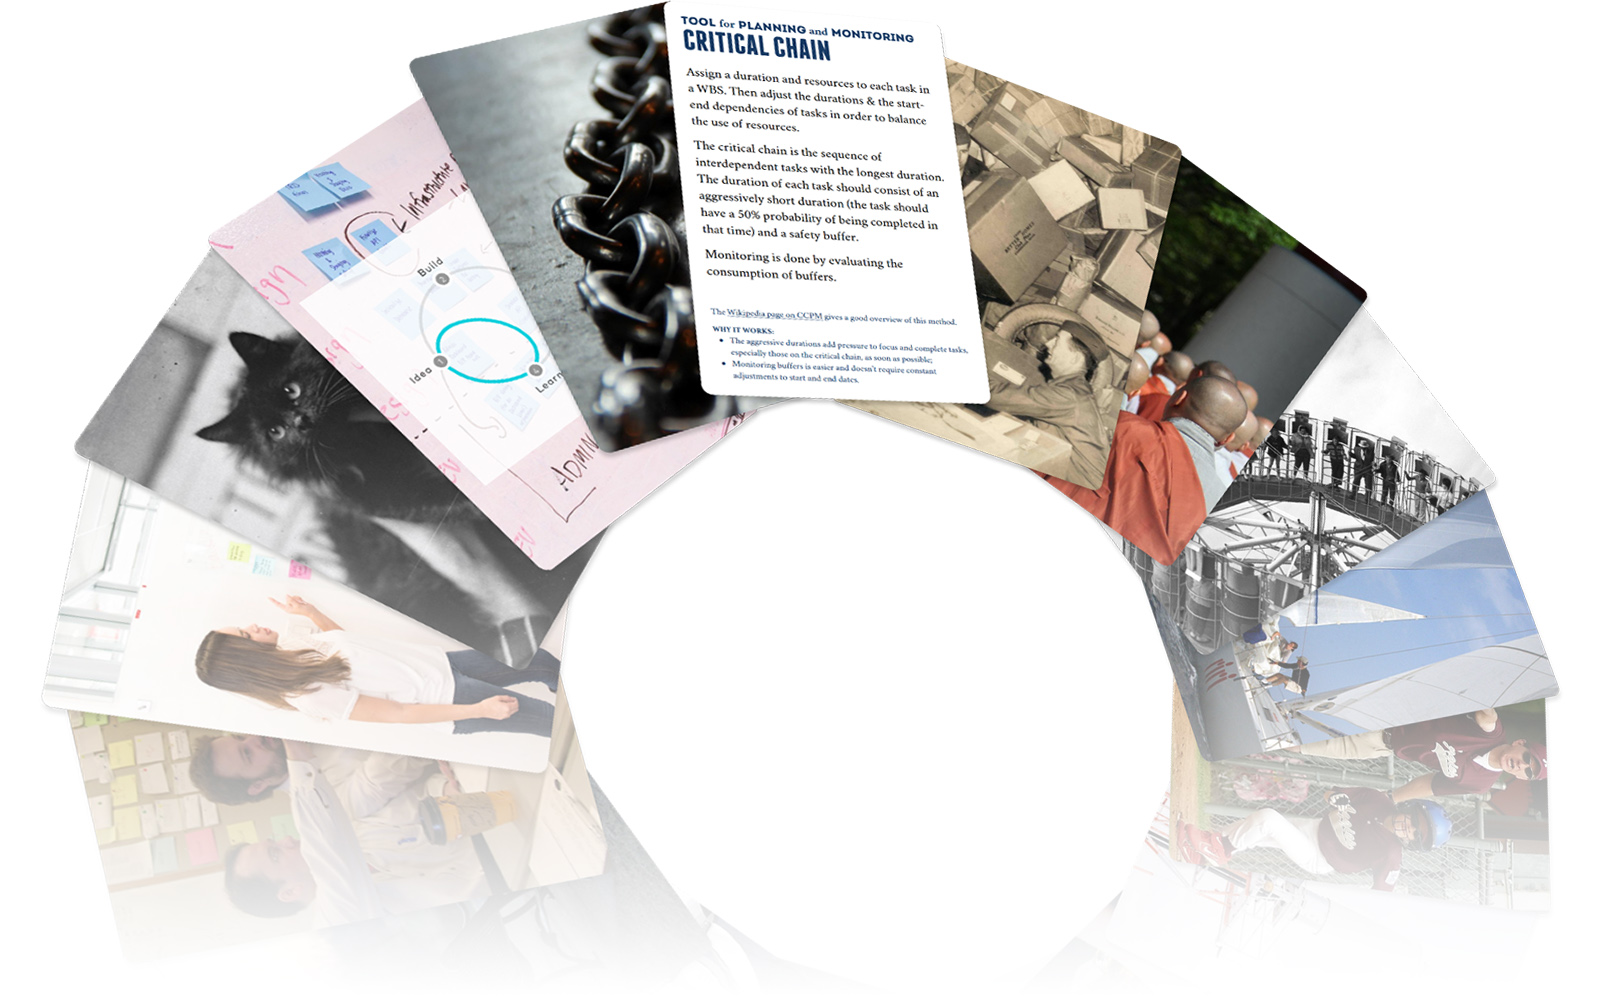
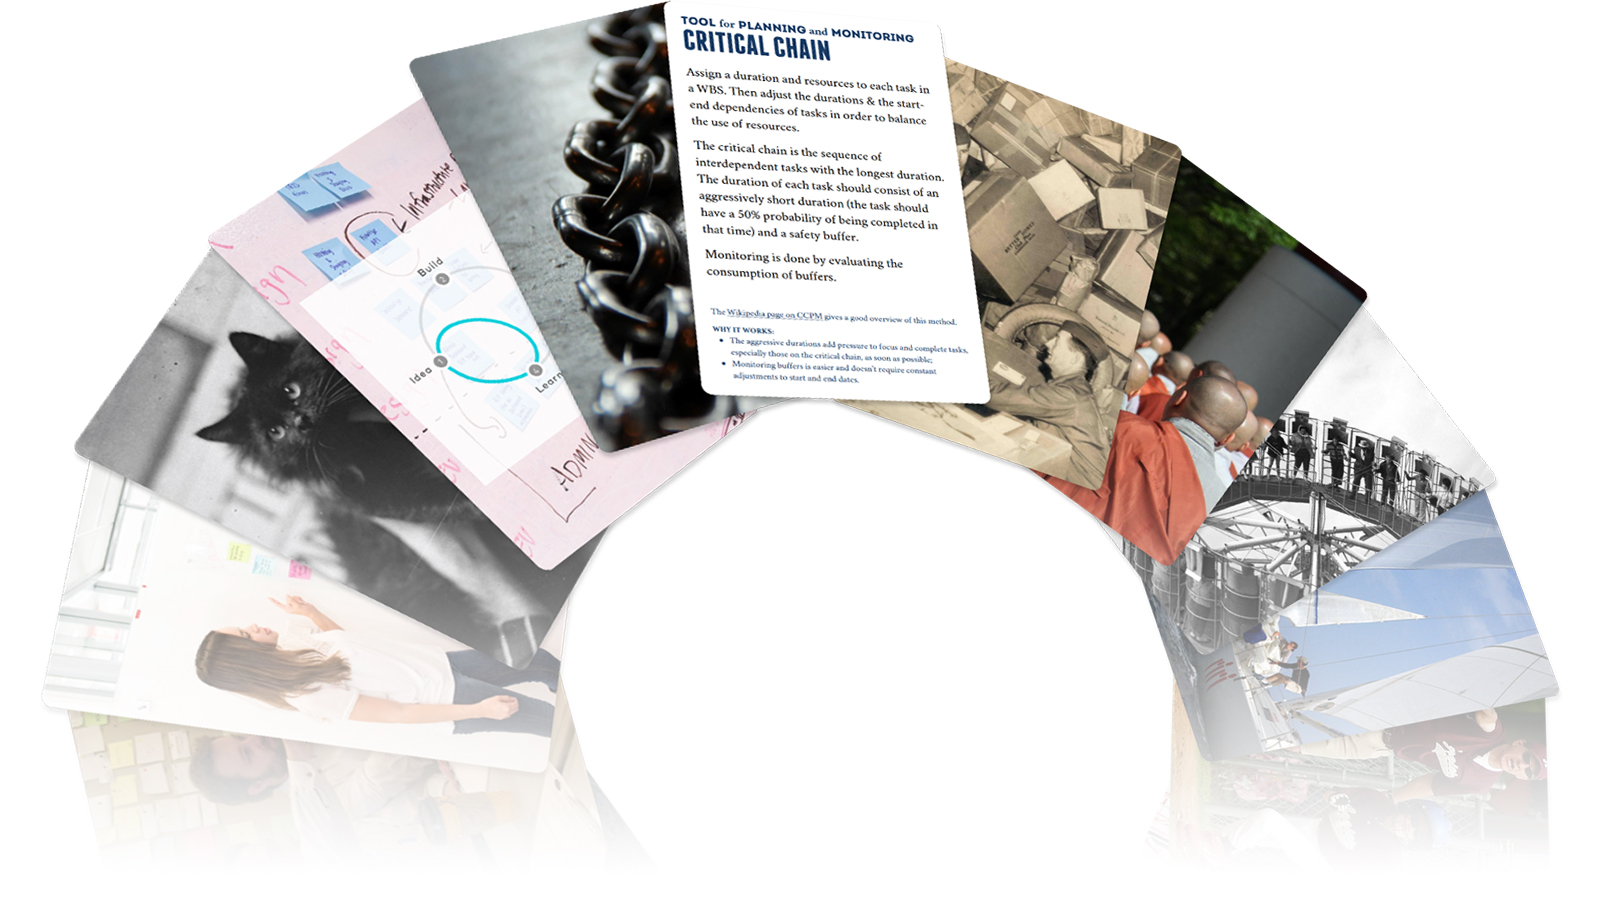
Image Header

Changed region(s): [[0.0312, 0.0, 1.0, 0.9022]]

diff --git a/css/solo.css b/css/solo.css
@@ -1,40 +1,56 @@
-@import url(http://fonts.googleapis.com/css?family=Open+Sans:300,300italc,400,400italic,500,700);
+@import url(https://fonts.googleapis.com/css?family=Open+Sans:400,400italic,500,700);
 
-html {
-  font: 18px/1.6 'Open Sans', sans-serif;
+/*position:absolute;z-index:-1;width: 100%;height: auto;/* margin-left: 0%; *//* margin-top: -10em; *//* display: block; #173a64 #header*/
+
+#header {
+  position: absolute;
+  z-index: -1;
+  width: 1200px;
+  height: auto;
+  left: 50%;
+  margin-left: -640px;
 }
 
-
-@media (max-width: 325px) {
-  html { font: 17px/1.6 'Open Sans', sans-serif; }
+@media (max-width: 470px) { 
+  #header { margin-left: -600px; }
 }
 
-body {
-  margin: 2rem 0 5rem;
-  color: #222;
-}
-
-@media (min-width: 30rem) {
-  body {
-    margin-top: 5rem;
-  }
-}
-
-a {
-  color: #0074d9; /* From http://clrs.cc */
-  text-decoration: none;
-}
-
-a:hover, a:focus {
-  text-decoration: underline;
-}
+html { font: 18px/1.6 'Open Sans', sans-serif; }
+body { margin: 2rem 0 5rem; color: #222; }
 
 h1, h2, h3, h4, h5, h6 {
-  margin: 0 0 0.5rem -0.1rem /* align left edge */;
+  margin: 2.5rem 0 1.5rem -0.1rem;
   color: #111;
   text-rendering: optimizeLegibility;
   font-family: 'Open Sans', serif;
   line-height: 1.2
+}
+
+h1 {
+  font-size: 4rem;
+  font-weight: 700;
+  margin-left: -2rem;
+  margin-right: -2rem;
+}
+
+h2 {
+  font-size: 1.75rem;
+  font-weight: 500;
+  color: #444;
+  text-align: right;
+  margin-right: -4rem;
+}
+
+h3 {
+  margin-left: -2rem;
+  margin-right: -2rem;
+  font-size: 2rem;
+}
+
+@media (max-width: 560px) { 
+  html { font: 16px/1.6 'Open Sans', sans-serif; }
+  h1 { font-size: 2rem; }
+  h3 { font-size: 1.75rem; }
 }
 
 @media (max-width: 750px) {
@@ -42,58 +58,6 @@ h1, h2, h3, h4, h5, h6 {
   margin-left: 0 !important;
   margin-right: 0 !important;
  }
-}
-
-h1 {
-  font-size: 2.5rem;
-  margin-bottom: 7rem;
-  font-weight: 700;
-  margin-left: -2rem;
-  margin-right: -2rem;
-}
-
-@media (min-width: 30rem) {
-  h1 {
-    font-size: 4rem;
-    margin-bottom: 10rem;
-  }
-}
-
-h1 a {
-  color: inherit;
-}
-
-h2 {
-  margin-top: 2rem;
-  font-size: 1.75rem;
-  font-weight: 500;
-  margin-bottom: 5rem;
-  color: #555;
-  text-align: right;
-  margin-right: -4rem;
-}
-
-@media (min-width: 30rem) {
-  h2 {
-    margin-top: 2.5rem;
-    font-size: 1.75rem;
-    margin-bottom: 8rem;
-    margin-right: -4rem;
-  }
-}
-
-h3 {
-  margin: 2rem -2rem 1.75rem -2rem;
-  margin-top: 2rem;
-  font-size: 1.75rem;
-}
-
-@media (min-width: 30rem) {
-  h3 {
-    margin-top: 2.5rem;
-    font-size: 2rem;
-    margin-bottom: 1.5rem;
-  }
 }
 
 h4, h5, h6 {
@@ -147,20 +111,14 @@ hr {
   max-width: 100%;
 }
 
-a {
-word-wrap: break-word;
-}
-
 .container img {
   margin: 2em auto 2em auto;
   display: block;
   max-width: 75%;
 }
 
-@media (max-width: 635px) {
-.container img {
- max-width: 100%
- }
+@media (max-width: 560px) {
+  .container img { max-width: 100% }
 }
 
 table {
@@ -198,45 +156,10 @@ pre > code {
   padding: 0 0.75rem;
 }
 
-.sharing {
-  text-align: center;
-}
-
 .date {
   text-align: right;
   font-size: 75%;
   font-style: italic;
-}
-
-@media (max-width: 635px) {
-.sharing {
- font-size: 85%;
- }
-}
-
-/* This gets Google to fall into place */
-.social {
- text-align: right;
-}
-
-.topsocial {
-	margin-bottom: 5em;
-}
-
-/* This gets Facebook to fall into place */
-.social iframe {
-	vertical-align: middle;
-}
-
-/* Set an optional width for your button wrappers */
-.social span {
-	display: inline-block;
-	width: 110px;
-}
-
-/* Adjust the widths individually if you like */
-.social .google {
-	width: 75px;
 }
 
 .button {
@@ -257,13 +180,4 @@ pre > code {
 	cursor: pointer;
 	text-decoration: none;
 	transition: 0.5s;
-}
-
-.Facebook {
-	transform: scale(1.25);
-}
-
-.sharing-buttons {
-	width: 100%;
-}
 }

diff --git a/_layouts/default.html b/_layouts/default.html
@@ -9,16 +9,16 @@
   <link rel="stylesheet" href="{{ site.baseurl }}/css/normalize.css">
   <link rel="stylesheet" href="{{ site.baseurl }}/css/solo.css">
   <link rel="stylesheet" href="{{ site.baseurl }}/css/syntax.css">
-  {% if site.font-awesome-include %}<link rel="stylesheet" href="https://maxcdn.bootstrapcdn.com/font-awesome/4.5.0/css/font-awesome.min.css">{% endif %}
+  <link rel="stylesheet" href="https://maxcdn.bootstrapcdn.com/font-awesome/4.5.0/css/font-awesome.min.css">
   <link rel="stylesheet" href="{{ site.baseurl }}/css/rrssb.css">
-
   <script src="{{ site.baseurl }}/scripts/jquery.js"></script>
-  <link rel="canonical" href="{{ site.url }}" />
+  <link rel="canonical" href="{{ site.url }}"/>
 </head>
 <body>
+  <img src="images/pmcardsheader.jpg" id="header">
   <article>
    <div class="container">
-    <h1><a href="./">{{ site.tag_text }}</a></h1>
+    <h1>{{ site.tag_text }}</h1>
     {{ content }}
     </div>
   </article>

diff --git a/index.md b/index.md
@@ -2,8 +2,6 @@
 layout: default
 ---
 
-<img src="images/pmcardsheader.jpg" style="position:absolute;">
-
 ## A set of cards with quick-to-adopt tools and practices from the different schools of project management
 
 ### Nice, clean, reading!
@@ -30,8 +28,6 @@ Simply add the following line anywhere in your markdown:
 </code></pre>
 
 and get a nice responsive sharing ribbon.
-
-{% include sharing.html %}
 
 Add this at the bottom, or the top, or between every other paragraph if you're desprate for social validation.
 
